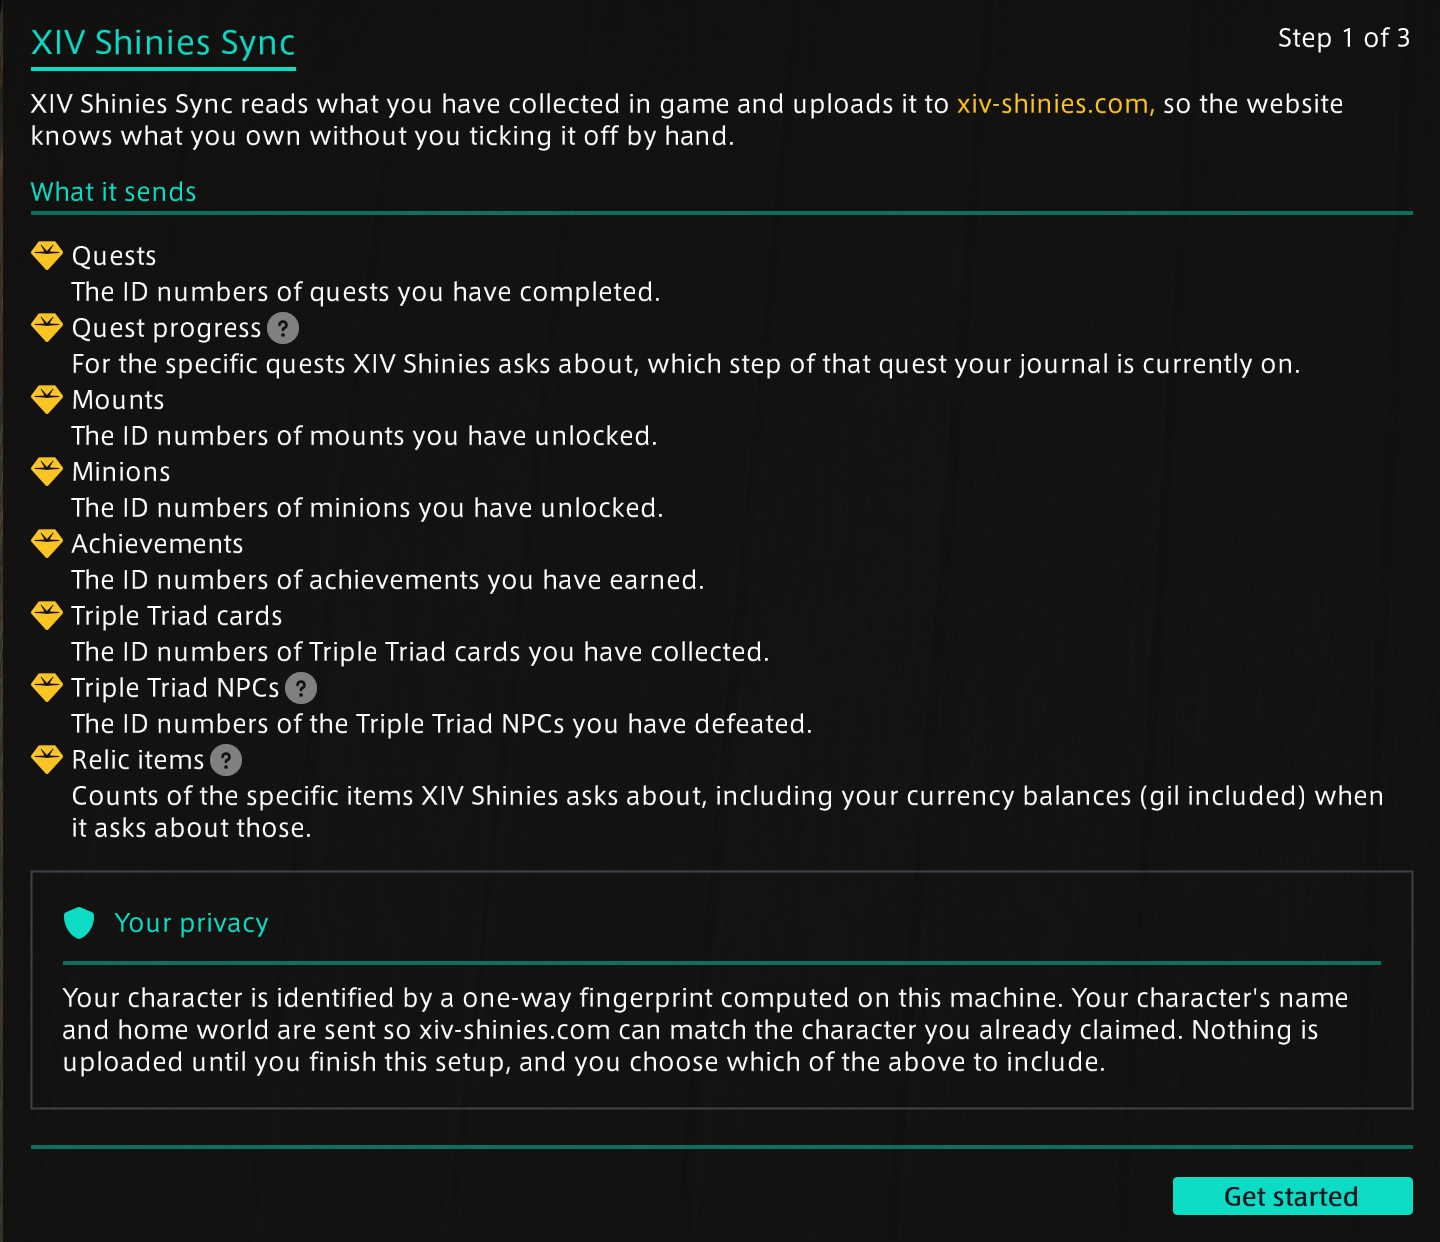
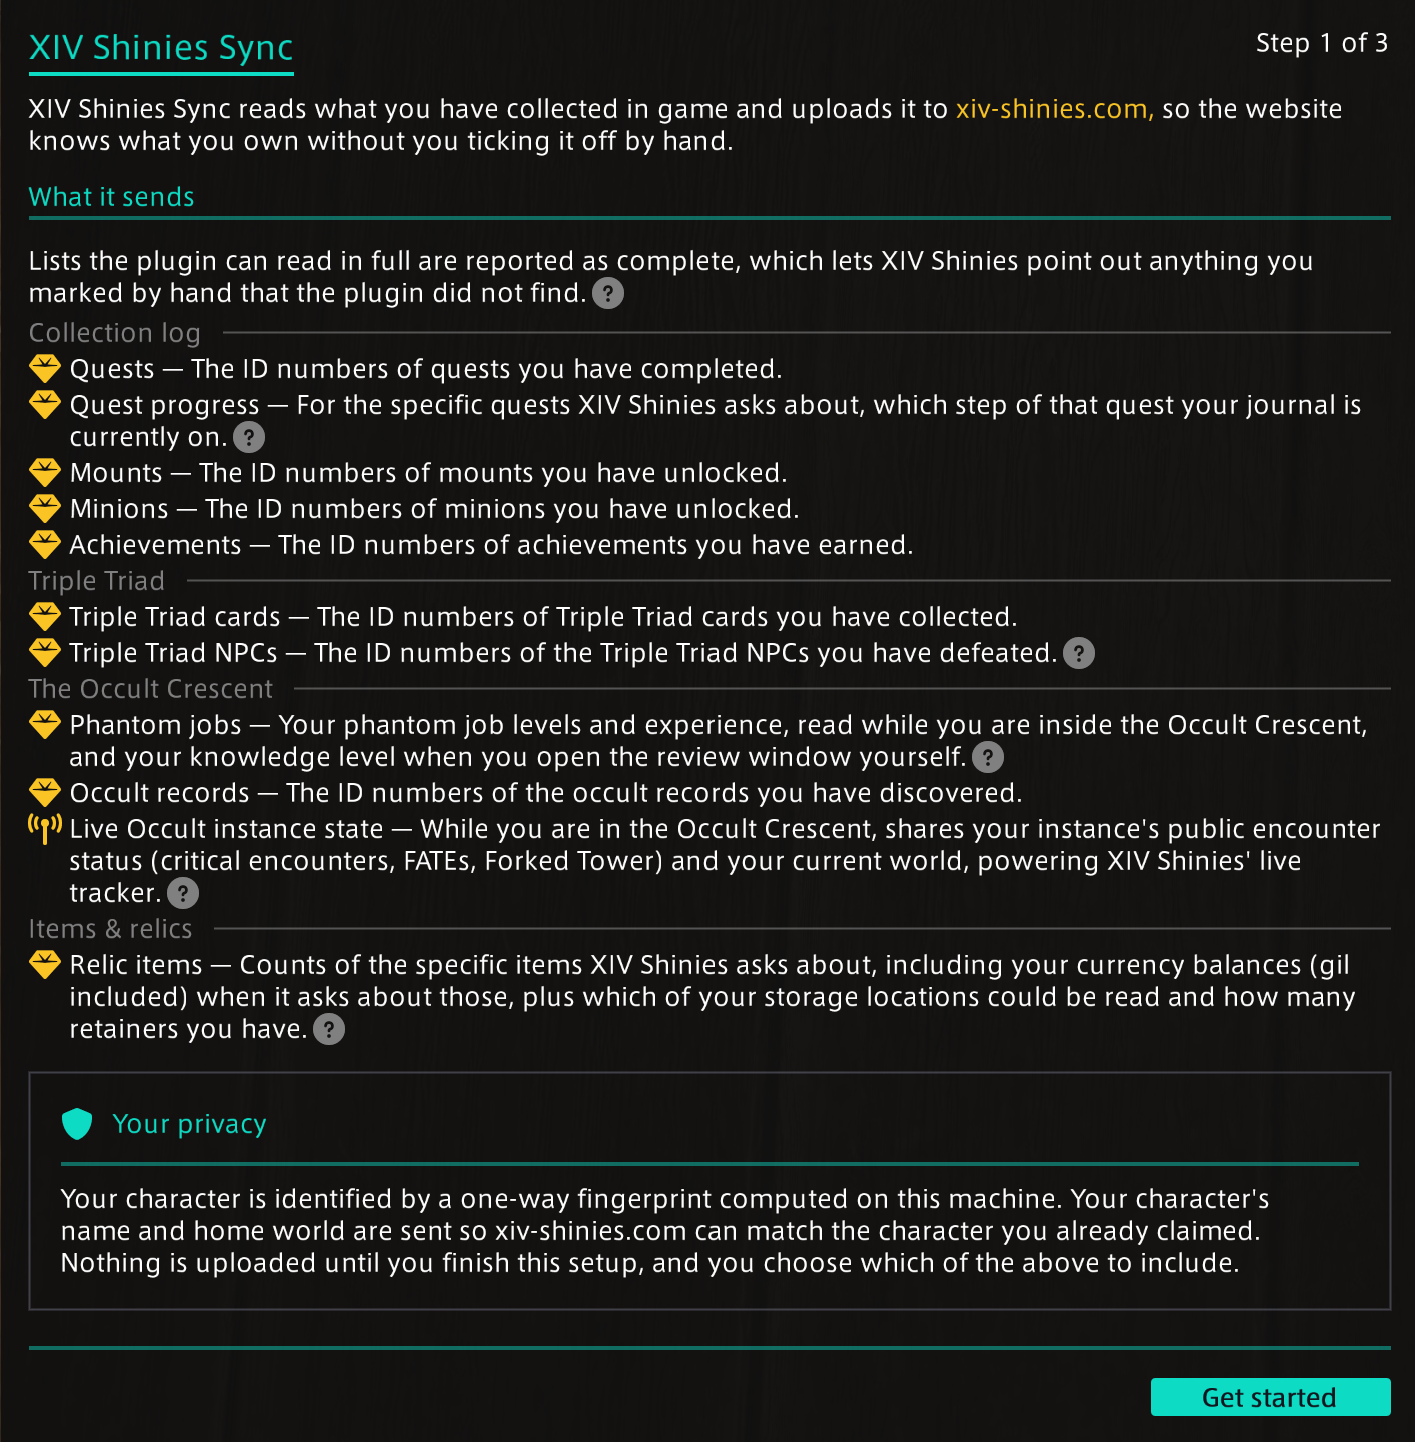
feat(ui): condense the consent surfaces to one line per collection
- Flow each collection as "Name — what it sends" on one line, on the wizard and in the settings
- Move the completeness note to the top of the wizard's disclosure list
- List the live tracker's disclosure under The Occult Crescent heading on the wizard
- Move the tracker's other-players reassurance behind a hover on every consent surface
- Name Jeffroy and his menu option in the Phantom jobs hover
- Refresh the wizard screenshots

Changed region(s): [[0.0, 0.0, 0.9951, 1.0], [0.964, 0.7343, 0.9951, 0.7649]]

diff --git a/src/XIVShinies.SyncPlugin/Windows/MainWindow.Consent.cs b/src/XIVShinies.SyncPlugin/Windows/MainWindow.Consent.cs
@@ -60,9 +60,10 @@ internal sealed partial class MainWindow
                    new Vector2(9f * ImGuiHelpers.GlobalScale, ImGui.GetStyle().ItemInnerSpacing.Y)))
         using (BrandCard())
         {
-            // A checkbox's label starts after the box itself plus the inner spacing; indenting the
-            // description by the same amount lines its left edge up with the label above it.
-            // Measured inside the push so the description column moves with the label.
+            // A checkbox's label starts after the box itself plus the inner spacing. The
+            // measure seeds each row's description home column and indents the notes and group
+            // checkboxes beneath it; taken inside the push so it tracks the label's real
+            // position.
             var checkboxColumn = ImGui.GetFrameHeight() + ImGui.GetStyle().ItemInnerSpacing.X;
             DrawSelectAll(rows, "All collections##selectAll");
             BrandSeparator();
@@ -195,13 +196,18 @@ internal sealed partial class MainWindow
     /// <param name="row">The row to draw.</param>
     /// <param name="showNewChips">See <see cref="DrawGroupCheckboxes"/>.</param>
     /// <param name="checkboxColumn">
-    /// The indent that lines the description up with the checkbox's label, measured by the caller
-    /// inside its ItemInnerSpacing push so the column tracks the label's real position.
+    /// The width from a row's left edge to its checkbox label — the flowed description's home
+    /// column, and the indent for the notes and group checkboxes beneath the row. Measured by
+    /// the caller inside its ItemInnerSpacing push so it tracks the label's real position.
     /// </param>
     private void DrawCategoryRow(CategorySettingsRow row, bool showNewChips, float checkboxColumn)
     {
         var enabled = row.UserEnabled;
         bool toggled;
+
+        // Captured before the checkbox draws: the column its label starts in is where the
+        // flowed description's wrapped lines come home to.
+        var labelColumn = ImGui.GetCursorPosX() + checkboxColumn;
 
         // The server switched this category off for everyone. Show it, disabled, with the
         // user's own preference intact underneath — flipping it back on later restores what
@@ -216,23 +222,20 @@ internal sealed partial class MainWindow
             toggled = ImGui.Checkbox($"{row.DisplayName}##{row.Key}", ref enabled);
         }
 
-        // The elaboration behind this row's one-liner, one hover away. Drawn only when the
-        // collector offered one, so a category whose description already says everything
-        // carries no affordance to wonder about.
-        if (row.Details is { } details)
-            DrawDetailsHint(details);
-
         if (toggled)
         {
             ManifestConsent.SetRowConsent(row, enabled, configuration.Settings);
             configuration.Save();
         }
 
-        // The description draws at the normal text color: it is the consent copy for this
-        // category — what the plugin will send if the box is ticked — so it has to be
-        // comfortably legible.
+        // The consent copy flows on the label's own line — "Name — what it sends" — with the
+        // collector's hover elaboration trailing the sentence when it offered one, and wrapped
+        // lines coming home under the label. It is what the plugin will send if the box is
+        // ticked, so it draws at full contrast.
+        ImGui.SameLine(0f, ImGui.GetStyle().ItemInnerSpacing.X);
+        DrawWrappedWithTrailingHint($"— {row.WhatGetsSent}", row.Details, labelColumn);
+
         ImGui.Indent(checkboxColumn);
-        DrawWrapped(row.WhatGetsSent, ImGuiCol.Text);
 
         // Muted: it only restates why the checkbox above it is grayed out, which the
         // disabled control already conveys on its own.
@@ -252,16 +255,25 @@ internal sealed partial class MainWindow
     }
 
     /// <summary>
-    /// The live Occult tracker's plain-language disclosure — what gets shared and, because the
-    /// natural worry is other players, what does not. One string, used verbatim by every
-    /// surface that discloses the tracker (the wizard's "What it sends" screen and the consent
-    /// card), so no surface can drift to saying less than another.
+    /// The live Occult tracker's plain-language disclosure — every kind of data the tracker
+    /// itself shares (the character identity beside it is <see cref="DrawPrivacyCard"/>'s
+    /// disclosure, as for every category). One string, used verbatim by every surface that
+    /// discloses the tracker (the wizard's "What it sends" screen and the consent card), so no
+    /// surface can drift to saying less than another.
     /// </summary>
     private const string OccultWhatGetsSent =
         "While you are in the Occult Crescent, shares your instance's public encounter " +
         "status (critical encounters, FATEs, Forked Tower) and your current world, powering " +
-        "XIV Shinies' live tracker. Nothing about you beyond your presence, and never " +
-        "anything about other players.";
+        "XIV Shinies' live tracker.";
+
+    /// <summary>
+    /// The tracker's hover elaboration: because the natural worry is other players, it says
+    /// what is NOT shared. Reassurance rather than a kind of data, so it follows the same split
+    /// as <see cref="Collectors.CategoryInfo.Details"/>.
+    /// </summary>
+    private const string OccultTrackerDetails =
+        "This is world state — nothing about you beyond your presence, and never anything " +
+        "about other players.";
 
     /// <summary>
     /// The live Occult tracker's consent card: its toggle and its disclosure copy. Drawn as its
@@ -303,6 +315,9 @@ internal sealed partial class MainWindow
             bool toggled;
             using (ImRaii.Disabled(serverOff))
                 toggled = ImGui.Checkbox("Share live Occult instance state##occultTracker", ref enabled);
+
+            // The what-is-NOT-shared reassurance, one hover away like every category's.
+            DrawDetailsHint(OccultTrackerDetails);
 
             if (toggled)
             {
@@ -380,9 +395,10 @@ internal sealed partial class MainWindow
     }
 
     /// <summary>
-    /// Draws a wrapped paragraph whose muted question mark flows as its final word — where a
-    /// reader's eye already is when they finish the sentence — revealing
-    /// <paramref name="details"/> on hover.
+    /// Draws a wrapped paragraph from wherever the cursor stands — continuation lines come back
+    /// to the first word's own column by default, so a paragraph started beside an icon stays
+    /// aligned under itself — with a muted question mark flowing as its final word when
+    /// <paramref name="details"/> offers hover text.
     /// </summary>
     /// <remarks>
     /// The paragraph sibling of <see cref="DrawDetailsHint"/>, which trails a one-line label:
@@ -395,12 +411,22 @@ internal sealed partial class MainWindow
     /// edge instead.
     /// </remarks>
     /// <param name="text">The paragraph.</param>
-    /// <param name="details">The hover text behind the trailing mark.</param>
-    private void DrawWrappedWithTrailingHint(string text, string details)
+    /// <param name="details">The hover text behind the trailing mark, or null for no mark.</param>
+    /// <param name="homeXOverride">
+    /// Where wrapped lines return to, in cursor space — for a paragraph whose continuation
+    /// belongs under an earlier column (a checkbox label) rather than under its own first word.
+    /// Null returns them to the first word's column.
+    /// </param>
+    private void DrawWrappedWithTrailingHint(
+        string text, string? details, float? homeXOverride = null)
     {
         var spaceWidth = ImGui.CalcTextSize(" ").X;
         var innerRight = activeCardInnerRight
             ?? (ImGui.GetCursorPosX() + ImGui.GetContentRegionAvail().X);
+
+        // Read before any word draws: the flow moves the cursor, so the first word's own
+        // column can only be captured now.
+        var homeX = homeXOverride ?? ImGui.GetCursorPosX();
         var first = true;
 
         // The word flow is the only wrapping authority (see DrawWrappedSpans for why the
@@ -420,12 +446,33 @@ internal sealed partial class MainWindow
                     // the right edge measured above.
                     ImGui.SameLine(0f, spaceWidth);
                     if (innerRight - ImGui.GetCursorPosX() < ImGui.CalcTextSize(word).X)
+                    {
                         ImGui.NewLine();
+                        ImGui.SetCursorPosX(homeX);
+                    }
+                }
+                else if (homeXOverride is not null
+                    && innerRight - ImGui.GetCursorPosX() < ImGui.CalcTextSize(word).X)
+                {
+                    // Only when the caller chose a home column: mid-line placement can leave no
+                    // room even for the FIRST word, and wrapping home genuinely widens the
+                    // line. Without an override, home IS the current column, so wrapping would
+                    // just repeat the same failed fit.
+                    ImGui.NewLine();
+                    ImGui.SetCursorPosX(homeX);
                 }
 
                 ImGui.TextUnformatted(word);
                 first = false;
             }
+        }
+
+        if (details is null)
+        {
+            // The words above were submitted with zero vertical spacing; a zero-size advance
+            // outside the push restores the normal gap before whatever the caller draws next.
+            ImGui.Spacing();
+            return;
         }
 
         // The mark, flowed as the sentence's last word. Drawn as a real item (unlike a
@@ -437,7 +484,10 @@ internal sealed partial class MainWindow
             {
                 ImGui.SameLine(0f, ImGui.GetStyle().ItemInnerSpacing.X);
                 if (innerRight - ImGui.GetCursorPosX() < ImGui.CalcTextSize(glyph).X)
+                {
                     ImGui.NewLine();
+                    ImGui.SetCursorPosX(homeX);
+                }
             }
 
             ImGui.TextDisabled(glyph);

diff --git a/src/XIVShinies.SyncPlugin/Windows/MainWindow.Wizard.cs b/src/XIVShinies.SyncPlugin/Windows/MainWindow.Wizard.cs
@@ -57,20 +57,22 @@ internal sealed partial class MainWindow
         Widgets.SectionGap();
         DrawSectionHeading("What it sends");
 
-        // The description's left edge lines up with the name's, not the gem's: measure the icon
-        // column (glyph plus the spacing SameLine inserts) and indent by exactly that.
-        float iconColumn;
-        using (iconFont.Push())
-        {
-            iconColumn = ImGui.CalcTextSize(FontAwesomeIcon.Gem.ToIconString()).X
-                + ImGui.GetStyle().ItemSpacing.X;
-        }
+        // The disclosure every consent surface carries, in the same intro position the settings
+        // screen gives it: a statement about every list below, not a caption for any one item.
+        DrawCompletenessNote();
+        ImGui.Spacing();
 
-        // Each collector describes itself. Adding a collection makes it appear here with no change
-        // to this window: a gold gem, the name, and the collector's own plain-language disclosure
-        // beneath it, listed under the section heading its collector declared. The disclosure
-        // draws at the normal text color, never muted: it is the consent copy telling the user
-        // what leaves their machine, so it has to be comfortably legible.
+        // Whether the Crescent section existed for the tracker's disclosure to hang on.
+        var trackerDrawn = false;
+
+        // Each collector describes itself. Adding a collection makes it appear here with no
+        // change to this window: a gold gem, then one flowed line — "Name — what it sends" —
+        // under the section heading its collector declared, with the hover elaboration trailing
+        // the sentence when the collector offered one (a category whose one-liner says
+        // everything carries no mark to wonder about). The line is the consent copy telling the
+        // user what leaves their machine, so it draws at full contrast. (See
+        // DrawCompletenessNote for why this pre-consent screen may never disclose less than the
+        // settings.)
         foreach (var section in CategorySettingsView.GroupBySection(BuildCategoryRows()))
         {
             DrawSectionLabel(section.Title);
@@ -79,36 +81,30 @@ internal sealed partial class MainWindow
             {
                 DrawIcon(FontAwesomeIcon.Gem, Brand.Gold);
                 ImGui.SameLine();
-                ImGui.TextUnformatted(row.DisplayName);
+                DrawWrappedWithTrailingHint(
+                    $"{row.DisplayName} — {row.WhatGetsSent}", row.Details);
+            }
 
-                // The same elaboration the settings list offers. This screen is the fuller
-                // disclosure of the two — it is what a user reads before consenting to anything —
-                // so it must never carry less than the settings do.
-                if (row.Details is { } details)
-                    DrawDetailsHint(details);
-
-                ImGui.Indent(iconColumn);
-                DrawWrapped(row.WhatGetsSent, ImGuiCol.Text);
-                ImGui.Unindent(iconColumn);
+            // The live Occult tracker's disclosure joins the Crescent section: it is occult
+            // data a reader scanning by game area expects to find here, even though it is not a
+            // collection. The one sanctioned title comparison on a consent surface — the title
+            // is the registry's own constant, and the tracker is a bespoke feature, not a
+            // registered collector, so no collector gains a name branch by it.
+            if (section.Title == CollectorRegistry.OccultSection)
+            {
+                DrawOccultTrackerDisclosureLine();
+                trackerDrawn = true;
             }
         }
 
-        // Closes the category list, the disclosure every consent surface carries (see
-        // DrawCompletenessNote).
-        ImGui.Spacing();
-        DrawCompletenessNote();
-
-        // The live Occult tracker is disclosed here alongside the collections even though it is
-        // not one — this screen is the fuller disclosure of the two, so everything the plugin
-        // can send appears on it. A broadcast tower rather than a gem: it shares live world
-        // state rather than adding anything to your collection.
-        ImGui.Spacing();
-        DrawIcon(FontAwesomeIcon.BroadcastTower, Brand.Gold);
-        ImGui.SameLine();
-        ImGui.TextUnformatted("Live Occult instance state");
-        ImGui.Indent(iconColumn);
-        DrawWrapped(OccultWhatGetsSent, ImGuiCol.Text);
-        ImGui.Unindent(iconColumn);
+        // The heading above only exists while a registered collector declares it, but the
+        // tracker's disclosure is owed regardless — the feature is live and default-on whatever
+        // the collectors do — so a list without the heading gets it created here.
+        if (!trackerDrawn)
+        {
+            DrawSectionLabel(CollectorRegistry.OccultSection);
+            DrawOccultTrackerDisclosureLine();
+        }
 
         Widgets.SectionGap();
         DrawPrivacyCard(
@@ -118,6 +114,19 @@ internal sealed partial class MainWindow
             "and you choose which of the above to include.");
 
         DrawWizardNav("Get started");
+    }
+
+    /// <summary>
+    /// The welcome screen's tracker disclosure, flowed as one sentence: a broadcast tower — it
+    /// shares live world state rather than adding anything to your collection — then the name
+    /// and copy flowed together, with the what-is-NOT-shared reassurance hover trailing.
+    /// </summary>
+    private void DrawOccultTrackerDisclosureLine()
+    {
+        DrawIcon(FontAwesomeIcon.BroadcastTower, Brand.Gold);
+        ImGui.SameLine();
+        DrawWrappedWithTrailingHint(
+            $"Live Occult instance state — {OccultWhatGetsSent}", OccultTrackerDetails);
     }
 
     private void DrawLinkAccountStep()

diff --git a/src/XIVShinies.SyncPlugin/Collectors/CollectorRegistry.cs b/src/XIVShinies.SyncPlugin/Collectors/CollectorRegistry.cs
@@ -24,8 +24,15 @@ public static class CollectorRegistry
     // constants so two collections meaning the same section cannot drift apart by a typo.
     private const string CollectionLogSection = "Collection log";
     private const string TripleTriadSection = "Triple Triad";
-    private const string OccultSection = "The Occult Crescent";
     private const string ItemsSection = "Items & relics";
+
+    /// <summary>
+    /// The Occult Crescent section's heading. Public, unlike its siblings, because the wizard's
+    /// disclosure list places the live tracker — occult data, but not a collection — under the
+    /// same heading, so the title needs one home: the collectors' declared section and the
+    /// wizard's placement of the tracker cannot drift apart by a typo.
+    /// </summary>
+    public const string OccultSection = "The Occult Crescent";
 
     private static readonly CategoryInfo Quests = new()
     {
@@ -165,12 +172,14 @@ public static class CollectorRegistry
             "Crescent, and your knowledge level when you open the review window yourself.",
 
         // The knowledge level is the one fact here the plugin cannot refresh on its own, so the
-        // hover says where it comes from and that its capture time travels with it — otherwise a
-        // level that lags behind the game looks like a broken sync rather than an old sighting.
+        // hover names the NPC and the menu option that produce it, and says its capture time
+        // travels with it. Otherwise a level that lags behind the game looks like a broken sync
+        // rather than an old sighting.
         Details =
             "All 24 support jobs travel together, updating each time you visit the Crescent. " +
-            "The knowledge level is captured only from the review window, and is sent with the " +
-            "time you opened it.",
+            "The knowledge level is captured only when you choose \"Review your knowledge " +
+            "level and currencies\" at Jeffroy in Phantom Village, and is sent with the time " +
+            "you opened it.",
     };
 
     private static readonly CategoryInfo OccultRecords = new()
